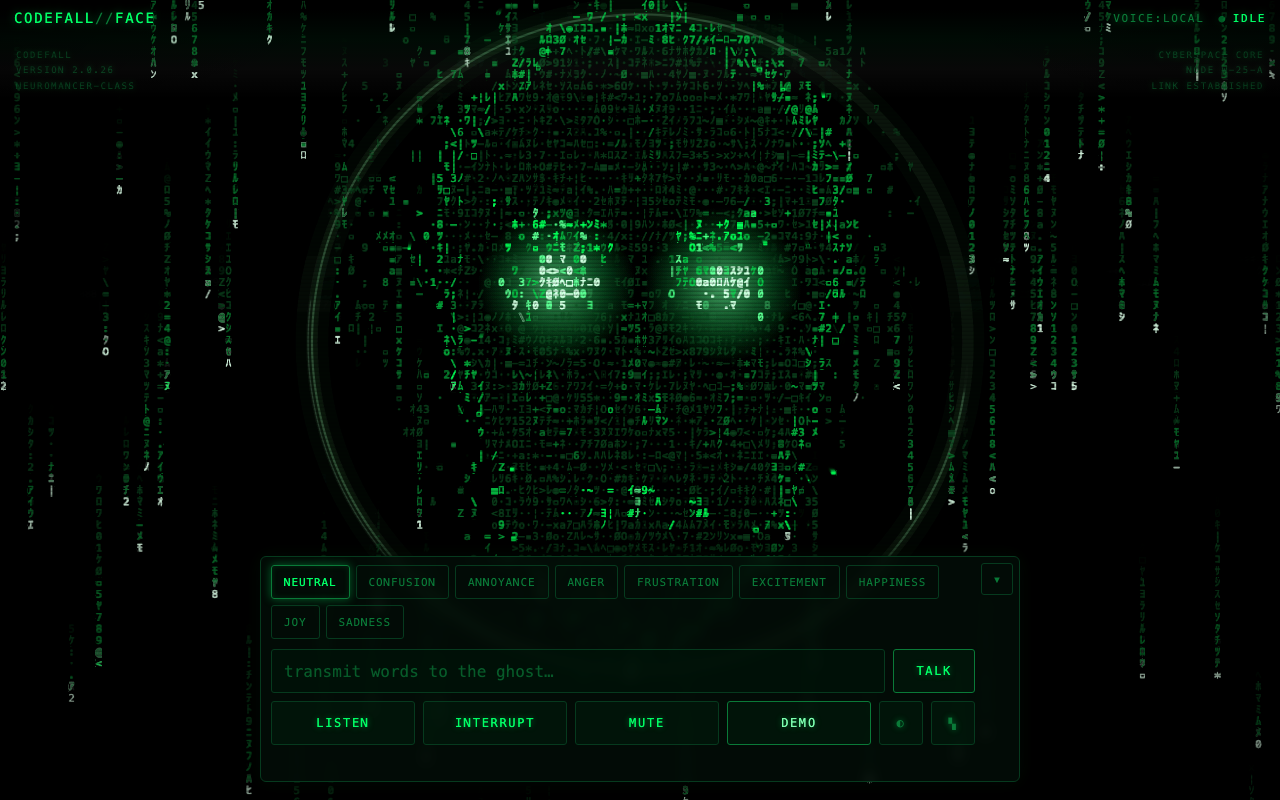
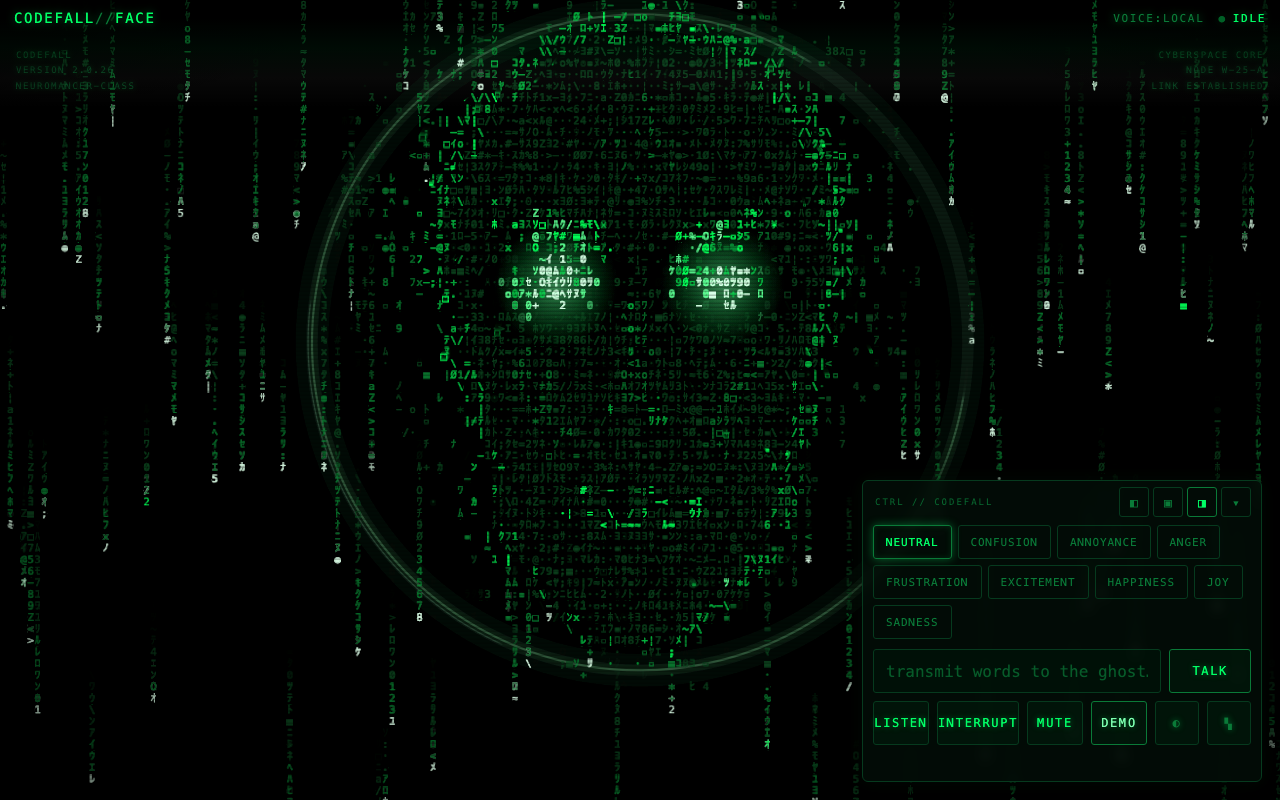
Demo GIF + MP4 in assets, GIF as README hero; per-band eye brightness clamps and tighter glow halo (anger no longer blows out); refreshed theme still

diff --git a/src/face/face-model.js b/src/face/face-model.js
@@ -220,11 +220,13 @@ export class FaceModel {
         const er = ex * ex + ey * ey;
         if (er < 1) {
           // White-hot core → bright iris → dark sclera gap → luminous
-          // limbal ring: concentric structure makes the stare radiant.
-          b = er < 0.18 ? 1.6 * p.eyeGlow
-            : er < 0.6 ? 1.05 * p.eyeGlow
-            : er < 0.85 ? 0.55 * p.eyeGlow
-            : 0.9 * p.eyeGlow;
+          // limbal ring. Per-band clamps keep the concentric structure
+          // legible even when an emotion pushes eyeGlow far above 1 —
+          // otherwise anger saturates the whole ellipse into one blob.
+          b = er < 0.18 ? Math.min(1.4, 1.6 * p.eyeGlow)
+            : er < 0.6 ? Math.min(1.2, 1.05 * p.eyeGlow)
+            : er < 0.85 ? Math.min(0.85, 0.55 * p.eyeGlow)
+            : Math.min(1.1, 0.9 * p.eyeGlow);
           reg = REGION.EYE;
         } else if (er < 2.8) {
           b -= 0.07; // socket shadow
@@ -254,11 +256,11 @@ export class FaceModel {
               b = 0.05;
               reg = REGION.MOUTH_INNER;
             } else if (Math.abs(v1 - yU) < lipT || Math.abs(v1 - yL) < lipT) {
-              b = Math.max(b, lipBright);
+              b = Math.max(b, Math.min(1.15, lipBright));
               reg = REGION.MOUTH;
             } else if (v1 > yU && v1 < yL) {
               // Inner mouth: dark void that boils with speech energy
-              b = 0.18 + dyn.energy * (0.45 + nz * 0.5);
+              b = Math.min(0.9, 0.18 + dyn.energy * (0.45 + nz * 0.5));
               reg = REGION.MOUTH_INNER;
             }
           }

diff --git a/src/face/renderer.js b/src/face/renderer.js
@@ -314,9 +314,9 @@ export class CodefallRenderer {
     if (dyn.blink > 0.15) {
       ctx.globalCompositeOperation = 'lighter';
       for (const eye of this.model.eyePositions(p, dyn)) {
-        const rad = eye.r * 1.9;
+        const rad = eye.r * 1.5;
         const g = ctx.createRadialGradient(eye.x, eye.y, 0, eye.x, eye.y, rad);
-        const a = Math.min(0.42, 0.16 * eye.glow * dyn.coherence);
+        const a = Math.min(0.3, 0.13 * eye.glow * dyn.coherence);
         g.addColorStop(0, `hsla(${glowHue}, ${glowSat}%, 72%, ${a})`);
         g.addColorStop(1, `hsla(${glowHue}, ${glowSat}%, 50%, 0)`);
         ctx.fillStyle = g;

diff --git a/README.md b/README.md
@@ -2,7 +2,7 @@
 
 A talking face for an AI agent, rendered entirely from falling neon glyphs.
 
-![Codefall theme — neon green data ghost](assets/codefall-theme.png)
+![Live demo — the ghost cycles neutral, anger, joy, sadness while speaking](assets/codefall-demo.gif)
 
 Not an avatar. Not a 3D head. A **data ghost** — a male face with a hard
 jawline that condenses out of matrix rain, speaks, emotes, glitches, and
@@ -22,7 +22,9 @@ ghost inside a broken neon halo. Both share the same procedural face;
 only palette, glyph vocabulary, halo intensity, and rain density change.
 The ▾ button minimizes the control console.
 
-![Wintermute theme — ice-white voxel ghost](assets/wintermute-theme.png)
+| Codefall (default) | Wintermute |
+|---|---|
+| ![Codefall theme](assets/codefall-theme.png) | ![Wintermute theme](assets/wintermute-theme.png) |
 
 ---
 